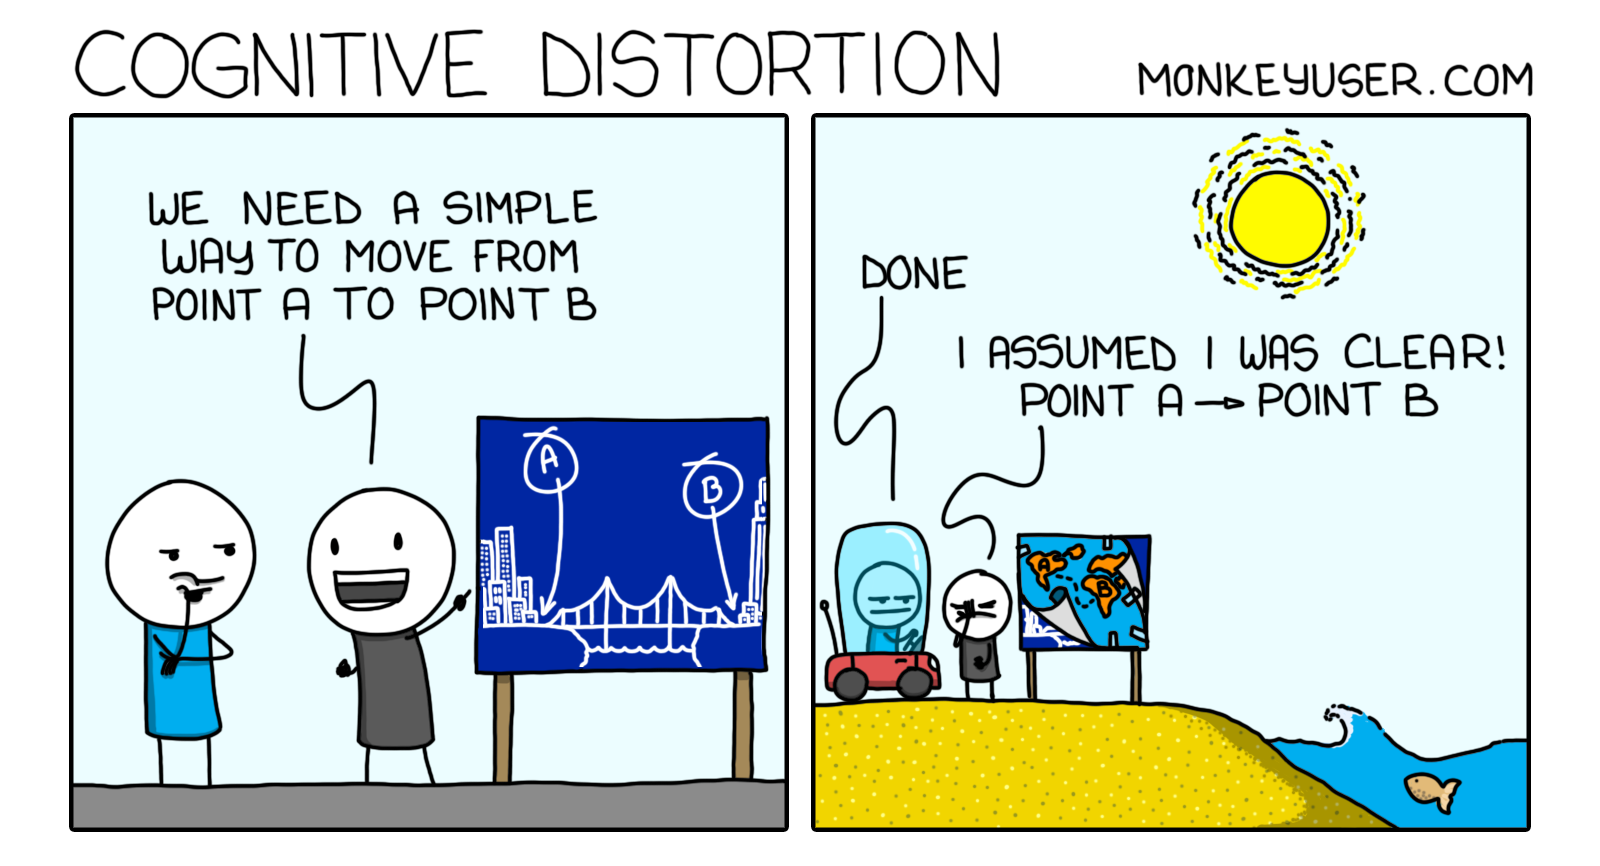
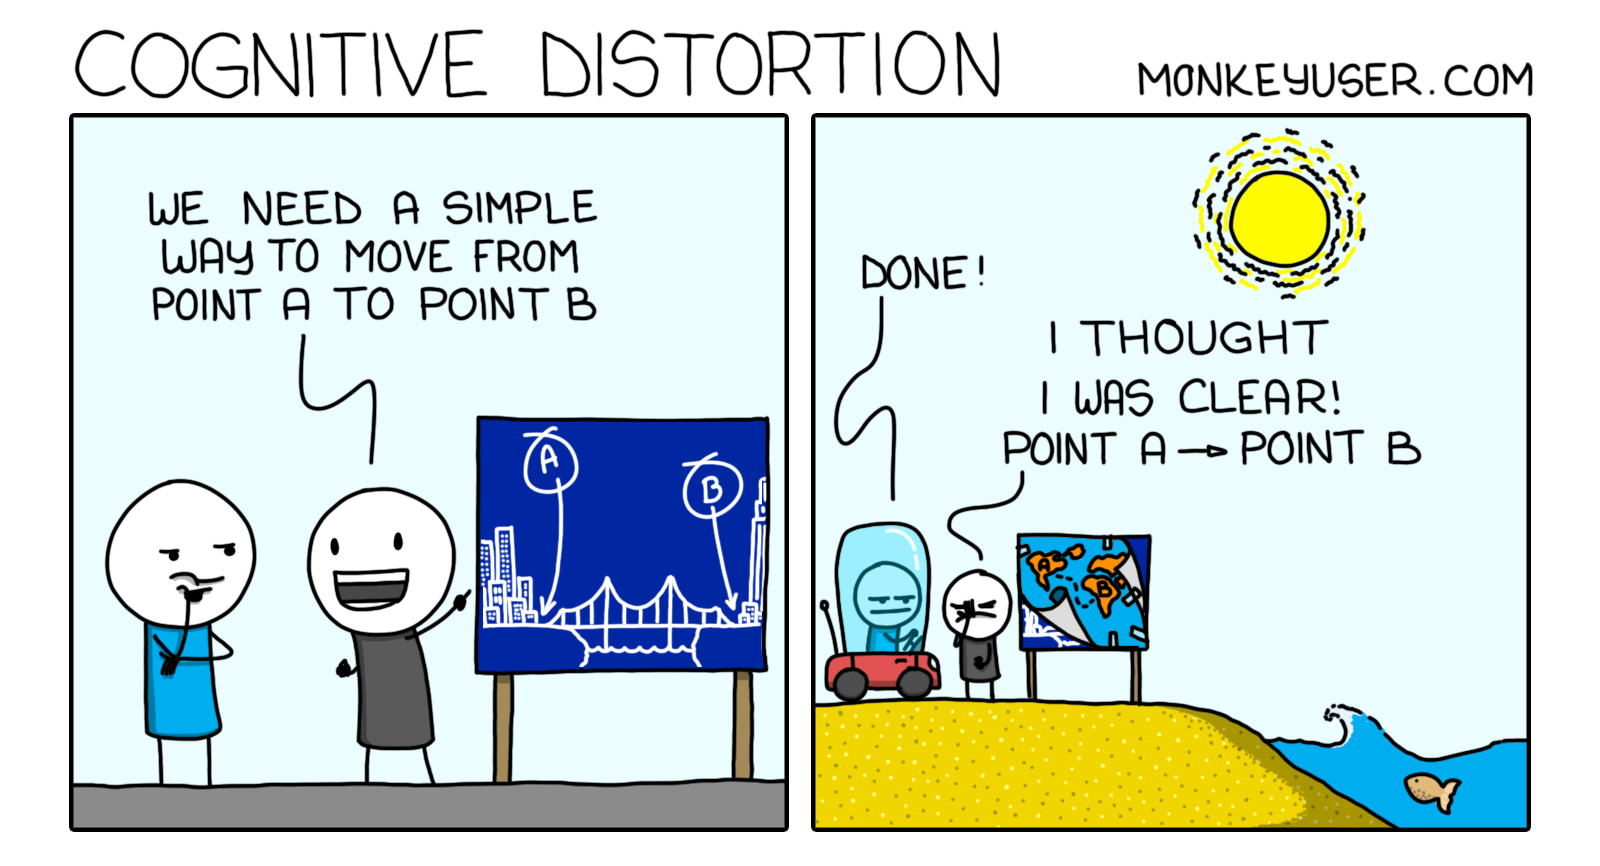
added cognitive distortion

Changed region(s): [[0.5938, 0.3741, 0.9375, 0.6547]]

diff --git a/_posts/2022/2022-09-30-cognitive-distortion.md b/_posts/2022/2022-09-30-cognitive-distortion.md
@@ -1,0 +1,13 @@
+---
+layout: post
+title: Cognitive Distortion
+date: 2022-09-30T00:00:00.000Z
+position: 11% 90%;
+tags: specs management
+image: 2022/252-cognitive-distortion.png
+published: true
+share: true
+---
+
+![Cognitive Distortion]({{ site.url }}/assets/images/2022/252-cognitive-distortion.png "Assumption is the mother of all fuckups!")
+
